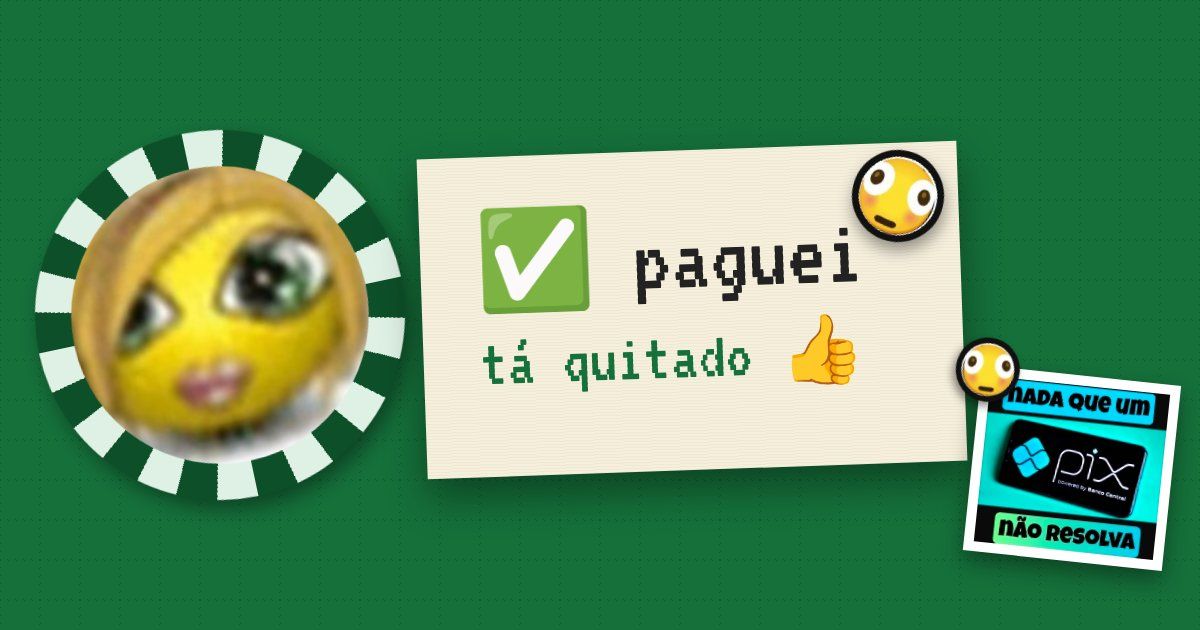
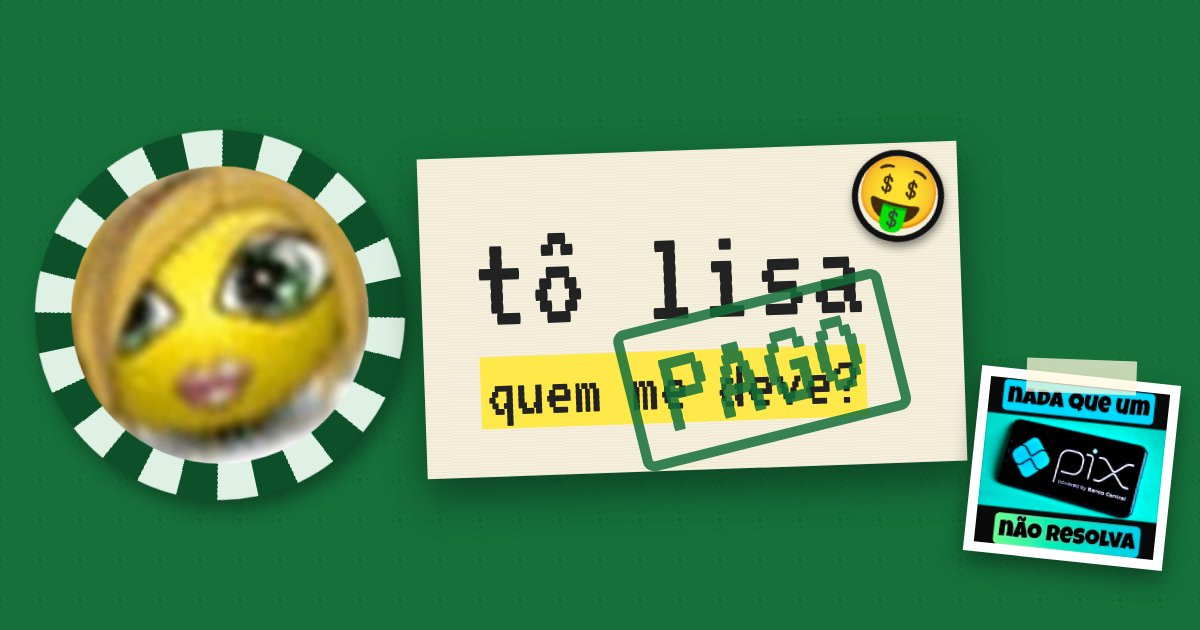
Pago: marca com carimbo PAGO, pin 🤑 e o pix na fita
Claude-Session: https://claude.ai/code/session_01YTxERD5uG47DzpcJXF9uYP

Changed region(s): [[0.4008, 0.3619, 0.9558, 0.754], [0.4008, 0.3016, 0.4933, 0.5127], [0.7092, 0.2413, 0.8017, 0.3921]]

diff --git a/pago/index.html b/pago/index.html
@@ -16,7 +16,7 @@
 <meta property="og:image:type" content="image/jpeg">
 <meta property="og:image:width" content="1200">
 <meta property="og:image:height" content="630">
-<meta property="og:image:alt" content="Fundo verde, figurinha do pix e o texto: paguei, tá quitado">
+<meta property="og:image:alt" content="Fundo verde, o texto tô lisa, quem me deve? com um carimbo PAGO e a figurinha do pix">
 <meta name="twitter:card" content="summary_large_image">
 <script src="/vai.js"></script>
 </head>
